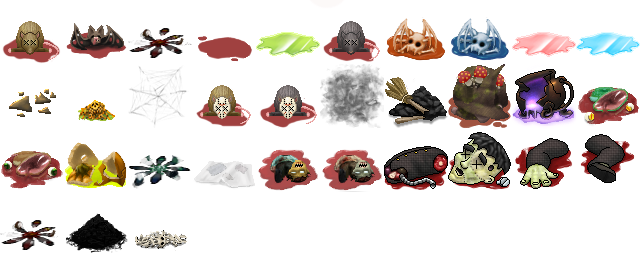
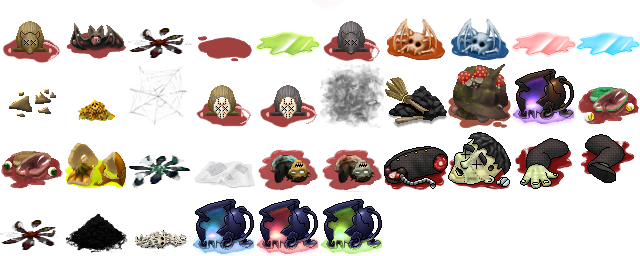
ADD New monster : elemental cauldron

Changed region(s): [[0.2812, 0.7812, 0.5938, 1.0]]

diff --git a/src/CauldronEntity.cpp b/src/CauldronEntity.cpp
@@ -8,7 +8,7 @@
 #include "Constants.h"
 #include "WitchBlastGame.h"
 
-CauldronEntity::CauldronEntity(float x, float y)
+CauldronEntity::CauldronEntity(float x, float y, cauldronTypeEnum cauldronType)
   : EnemyEntity (ImageManager::getInstance().getImage(IMAGE_CAULDRON), x, y)
 {
   creatureSpeed = 0.0f;
@@ -16,17 +16,30 @@ CauldronEntity::CauldronEntity(float x, float y)
   hp = CAULDRON_HP;
   hpMax = hp;
   meleeDamages = 0;
+  this->cauldronType = cauldronType;
 
   bloodColor = BloodNone;
   invokeDelay = 2.5f;
   bubbleDelay = 0.0f;
   shadowFrame = 2;
   sprite.setOrigin(32, 28);
+  imagesProLine = 2;
 
   deathFrame = FRAME_CORPSE_CAULDRON;
   dyingSound = SOUND_CAULDRON_DIE;
 
-  enemyType = EnemyTypeCauldron;
+  if (cauldronType == CauldronTypeElemental)
+  {
+    enemyType = EnemyTypeCauldronElemental;
+    colorChangeDelay = 4.0f + rand()% 40 * 0.1f;
+    colorState = rand() % 3;
+  }
+  else
+  {
+    enemyType = EnemyTypeCauldron;
+  }
+
+  enemyType = cauldronType == CauldronTypeStandard ? EnemyTypeCauldron : EnemyTypeCauldronElemental;
   resistance[ResistanceRecoil] = ResistanceVeryHigh;
   resistance[ResistancePoison] = ResistanceImmune;
   canExplode = false;
@@ -50,21 +63,65 @@ void CauldronEntity::animate(float delay)
     invokeDelay -= delay;
     if (invokeDelay < 0.0f)
     {
-      new SlimeEntity(x, y, SlimeTypeViolet, true);
-      invokeDelay = 1.5f + (float)(rand() % 2500) / 1000.0f;
+      if (cauldronType == CauldronTypeElemental)
+      {
+        slimeTypeEnum slimeType;
+        switch (colorState)
+        {
+          case 0: slimeType = SlimeTypeBlue; break;
+          case 1: slimeType = SlimeTypeRed; break;
+          case 2: slimeType = SlimeTypeStandard; break;
+        }
+        new SlimeEntity(x, y, slimeType, true);
+        invokeDelay = 2.75f + (float)(rand() % 3000) / 1000.0f;
+      }
+      else
+      {
+        new SlimeEntity(x, y, SlimeTypeViolet, true);
+        invokeDelay = 1.5f + (float)(rand() % 2500) / 1000.0f;
+      }
+    }
+
+    if (cauldronType == CauldronTypeElemental)
+    {
+      colorChangeDelay -= delay;
+      if (colorChangeDelay < 0.0f)
+      {
+        colorChangeDelay = 4.0f + rand()% 50 * 0.1f;
+        if (rand() % 2 == 0)
+        {
+          colorState++;
+          if (colorState > 2) colorState = 0;
+        }
+        else
+        {
+          colorState--;
+          if (colorState < 0) colorState = 2;
+        }
+      }
     }
 
     bubbleDelay -= delay;
     if (bubbleDelay < 0.0f)
     {
       bubbleDelay = 0.3f;
+      int bubbleFrame = 32;
+      if (cauldronType == CauldronTypeElemental)
+      {
+        switch (colorState)
+        {
+          case 0: bubbleFrame = 33; break;
+          case 1: bubbleFrame = 34; break;
+          case 2: bubbleFrame = 35; break;
+        }
+      }
 
       for (int i=0; i < 2; i++)
       {
         float xBub = x - 16 + rand() % 32;
         SpriteEntity* bubble = new SpriteEntity(ImageManager::getInstance().getImage(IMAGE_CAULDRON), xBub, y - 20, 8, 8);
         bubble->setZ(z);
-        bubble->setFrame(32);
+        bubble->setFrame(bubbleFrame);
         bubble->setType(ENTITY_EFFECT);
         bubble->setWeight(-20 - rand() % 40);
         bubble->setLifetime(2.0f);
@@ -73,6 +130,16 @@ void CauldronEntity::animate(float delay)
       }
     }
     frame = hp > hpMax / 2 ? 0 : 1;
+    if (cauldronType == CauldronTypeElemental)
+    {
+      switch (colorState)
+      {
+        case 0: frame += 2; break;
+        case 1: frame += 4; break;
+        case 2: frame += 6; break;
+      }
+    }
+
     EnemyEntity::animate(delay);
   }
 }
@@ -152,11 +219,18 @@ void CauldronEntity::dying()
 {
   new ExplosionEntity(x, y, ExplosionTypeViolet, 0, EnemyTypeNone, true);
 
-  SoundManager::getInstance().playSound(dyingSound);
-  isAgonising = true;
-  agonizingDelay = 0.7f;
-  drop();
-  game().addKilledEnemy(enemyType, hurtingType);
+  if (cauldronType == CauldronTypeElemental)
+    {
+      switch (colorState)
+      {
+        case 0: deathFrame = FRAME_CORPSE_CAULDRON_RED; break;
+        case 1: deathFrame = FRAME_CORPSE_CAULDRON_BLUE; break;
+        case 2: deathFrame = FRAME_CORPSE_CAULDRON_GREEN; break;
+      }
+    }
+
+  EnemyEntity::dying();
+  return;
 }
 
 void CauldronEntity::drop()

diff --git a/src/WitchBlastGame.cpp b/src/WitchBlastGame.cpp
@@ -66,7 +66,7 @@
 
 #include <algorithm>
 
-//#define START_LEVEL 7
+//#define START_LEVEL 5
 
 const float PORTRAIT_DIAPLAY_TIME = 5.0f;
 const unsigned int ACHIEV_LINES = 2;
@@ -1226,6 +1226,7 @@ void WitchBlastGame::updateRunningGame()
           findPlaceMonsters(EnemyTypeWitch, 1);
           findPlaceMonsters(EnemyTypeWitchRed, 1);
           findPlaceMonsters(EnemyTypeCauldron, 1);
+          findPlaceMonsters(EnemyTypeCauldronElemental, 1);
         }
       }
       if (event.key.code == sf::Keyboard::F11)
@@ -4113,7 +4114,10 @@ void WitchBlastGame::addMonster(enemyTypeEnum monsterType, float xm, float ym)
     proceedEvent(EventMeetWitches);
     break;
   case EnemyTypeCauldron:
-    new CauldronEntity(xm, ym);
+    new CauldronEntity(xm, ym, CauldronTypeStandard);
+    break;
+  case EnemyTypeCauldronElemental:
+    new CauldronEntity(xm, ym, CauldronTypeElemental);
     break;
   case EnemyTypeSpiderEgg:
     new SpiderEggEntity(xm, ym, false);
@@ -5913,6 +5917,9 @@ std::string WitchBlastGame::enemyToString(enemyTypeEnum enemyType)
     break;
   case EnemyTypeCauldron:
     value = "enemy_type_cauldron";
+    break;
+  case EnemyTypeCauldronElemental:
+    value = "enemy_type_cauldron_elemental";
     break;
   case EnemyTypeGhost:
     value = "enemy_type_ghost";

diff --git a/src/Constants.h b/src/Constants.h
@@ -20,14 +20,14 @@
 #include <string>
 
 const std::string APP_NAME =      "Witch Blast";
-const std::string APP_VERSION =   "0.4.9";
+const std::string APP_VERSION =   "0.5.0";
 
 const std::string CONFIG_FILE =     "config.dat";
 const std::string SAVE_FILE =       "game.sav";
 const std::string SAVE_DATA_FILE =  "data/data.sav";
 const std::string HISCORES_FILE =  "data/scores.dat";
 
-const std::string SAVE_VERSION =  "SAVE_0.4.6";
+const std::string SAVE_VERSION =  "SAVE_0.5.0";
 
 const int NB_LANGUAGES = 5;
 const std::string languageString[NB_LANGUAGES] = { "english", "french", "german", "spanish", "russian" };
@@ -315,6 +315,9 @@ enum corpses_ressources{
   FRAME_CORPSE_FLOWER_FIRE,
   FRAME_CORPSE_VAMPIRE,
   FRAME_CORPSE_BAT_SKELETON,
+  FRAME_CORPSE_CAULDRON_BLUE,
+  FRAME_CORPSE_CAULDRON_RED,
+  FRAME_CORPSE_CAULDRON_GREEN,
 
   FRAME_CORPSE_KING_RAT,
   FRAME_CORPSE_GIANT_SLIME,

diff --git a/src/Scoring.h b/src/Scoring.h
@@ -54,6 +54,8 @@ int getMonsterScore(enemyTypeEnum monster)
     case EnemyTypeGhost:          score = 25; break;
     case EnemyTypeZombie:         score = 25; break;
     case EnemyTypeZombieDark:     score = 25; break;
+    case EnemyTypeCauldronElemental:
+                                  score = 30; break;
     case EnemyTypeBogeyman:       score = 32; break;
 
     case EnemyTypeBubble:         score = 25; break;
@@ -63,7 +65,8 @@ int getMonsterScore(enemyTypeEnum monster)
     case EnemyTypeSlimeLarge:     score = 30; break;
     case EnemyTypeSlimeBlueLarge: score = 45; break;
     case EnemyTypeSlimeRedLarge:  score = 45; break;
-    case EnemyTypeSlimeVioletLarge:  score = 45; break;
+    case EnemyTypeSlimeVioletLarge:
+                                  score = 45; break;
 
     case EnemyTypeButcher:        score = 30; break;
     case EnemyTypeSlimeBoss:      score = 60; break;

diff --git a/src/CauldronEntity.h b/src/CauldronEntity.h
@@ -3,10 +3,12 @@
 
 #include "EnemyEntity.h"
 
+enum cauldronTypeEnum { CauldronTypeStandard, CauldronTypeElemental };
+
 class CauldronEntity : public EnemyEntity
 {
   public:
-    CauldronEntity(float x, float y);
+    CauldronEntity(float x, float y, cauldronTypeEnum cauldronType);
     virtual void animate(float delay);
     virtual void calculateBB();
   protected:
@@ -25,6 +27,10 @@ class CauldronEntity : public EnemyEntity
     float invokeDelay;
     float bubbleDelay;
     float agonizingDelay;
+    float colorChangeDelay;
+    int colorState;
+
+    cauldronTypeEnum cauldronType;
 };
 
 #endif // CAULDRON_ENTITY_H

diff --git a/src/BaseCreatureEntity.h b/src/BaseCreatureEntity.h
@@ -29,6 +29,7 @@ enum enemyTypeEnum
   EnemyTypeWitch,
   EnemyTypeWitchRed,
   EnemyTypeCauldron,
+  EnemyTypeCauldronElemental,
   EnemyTypeSpiderEgg,
   EnemyTypeSpiderLittle,
   EnemyTypeGhost,
